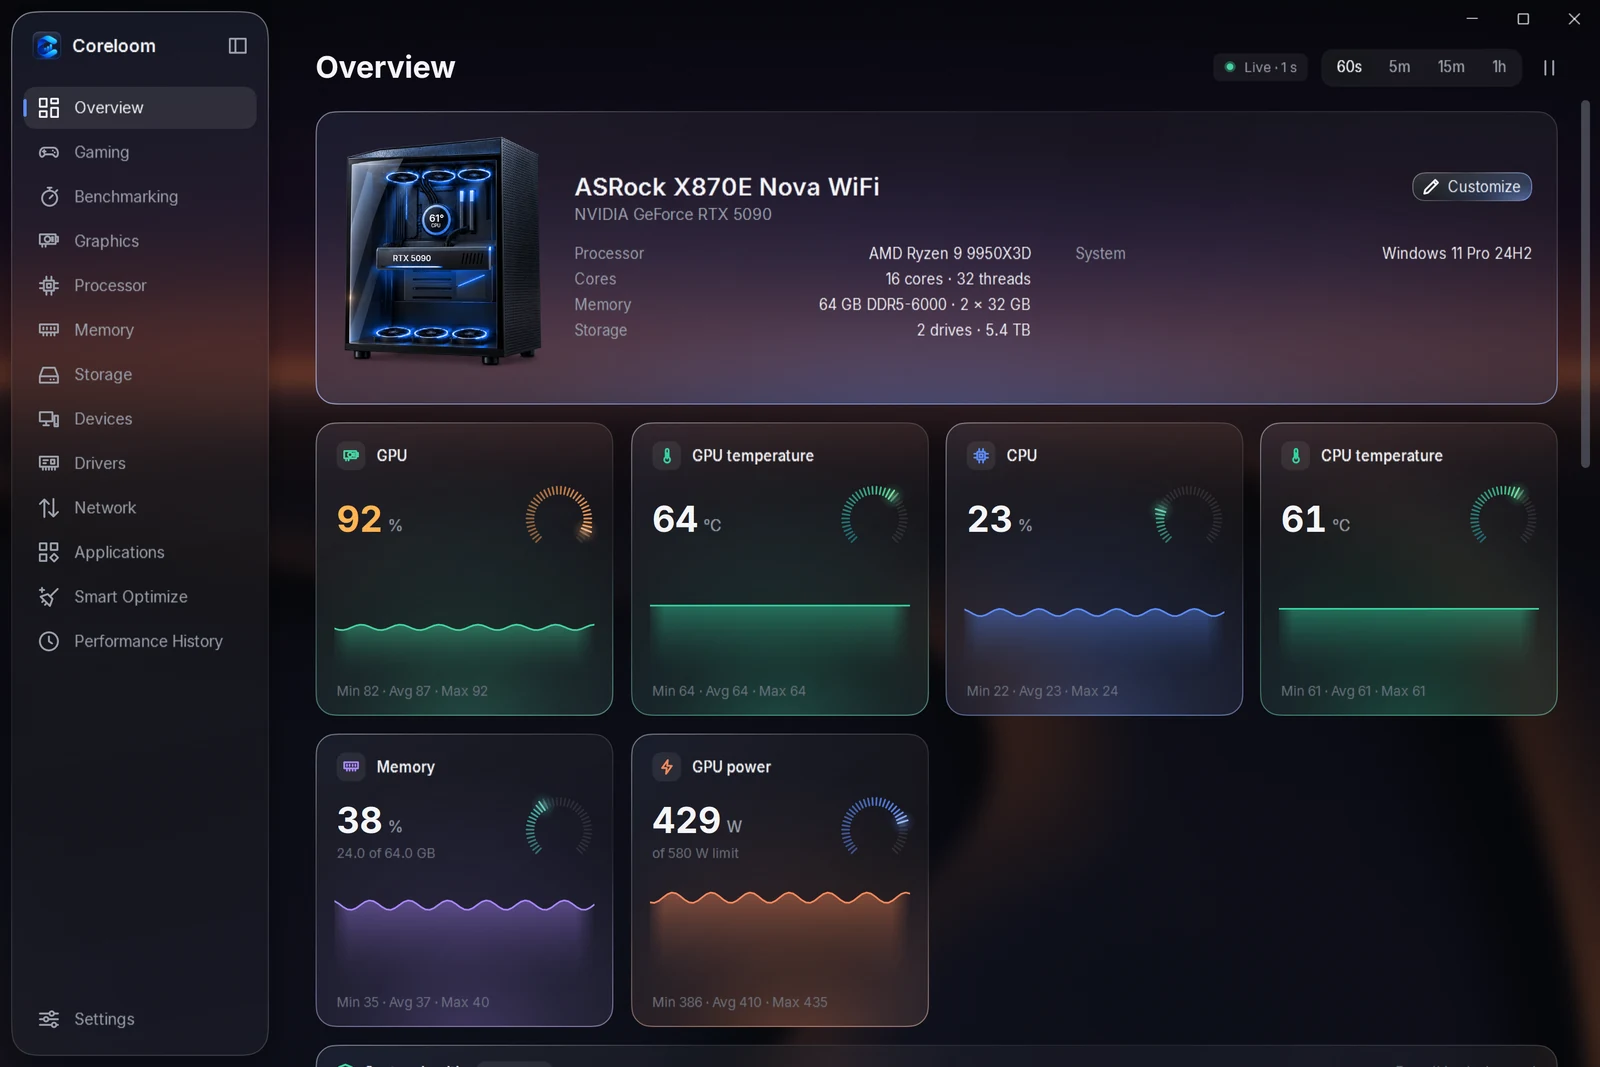
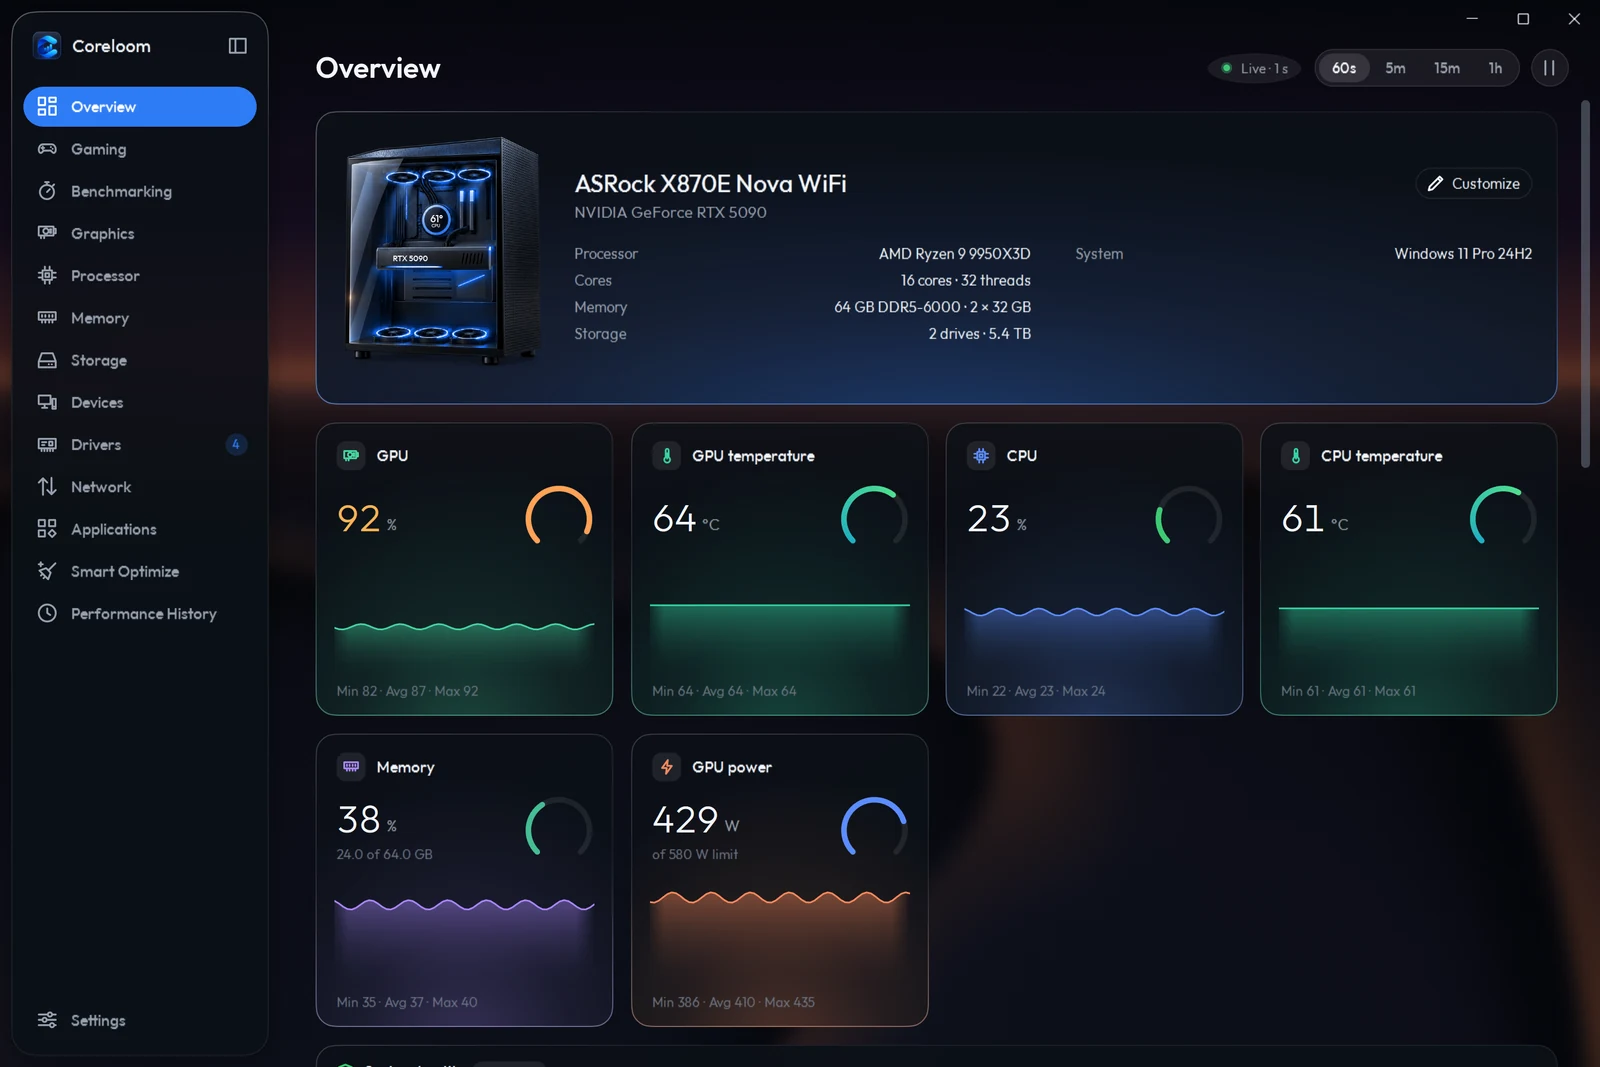
1.9.0: the website's, README's and link preview's pictures, the disk image's background in Outfit, the hero card's glow kept, what was verified
Claude-Session: https://claude.ai/code/session_01KSkAPnRycRxeooZjZu2bHo

diff --git a/build/mac/make-dmg-background.py b/build/mac/make-dmg-background.py
@@ -39,11 +39,11 @@ def draw(scale: int) -> Image.Image:
 
     # Title and instruction.
     title = "Install Coreloom"
-    f_title = font("Inter-SemiBold.ttf", 22, scale)
+    f_title = font("Outfit-SemiBold.ttf", 22, scale)
     tw = d.textlength(title, font=f_title)
     d.text(((w - tw) / 2, 34 * scale), title, font=f_title, fill=(240, 244, 255))
     sub = "Drag Coreloom into the Applications folder."
-    f_sub = font("Inter-Regular.ttf", 13.5, scale)
+    f_sub = font("Outfit-Regular.ttf", 13.5, scale)
     sw = d.textlength(sub, font=f_sub)
     d.text(((w - sw) / 2, 68 * scale), sub, font=f_sub, fill=(176, 189, 216))
 
@@ -59,8 +59,8 @@ def draw(scale: int) -> Image.Image:
     d.polygon([(x1, y), (x1 - 16 * scale, y - 10 * scale), (x1 - 16 * scale, y + 10 * scale)], fill=(108, 160, 255))
 
     # The first opening.
-    f_note = font("Inter-Regular.ttf", 11.5, scale)
-    f_bold = font("Inter-SemiBold.ttf", 11.5, scale)
+    f_note = font("Outfit-Regular.ttf", 11.5, scale)
+    f_bold = font("Outfit-SemiBold.ttf", 11.5, scale)
     lines = [
         [("First opening: ", f_bold), ("if macOS says it could not verify Coreloom, open", f_note)],
         [("System Settings › Privacy & Security", f_bold), (" and click ", f_note), ("Open Anyway", f_bold), (" (only this once).", f_note)],

diff --git a/build/site/make-og.py b/build/site/make-og.py
@@ -16,7 +16,7 @@ W, H = 1200, 630
 
 
 def font(weight, size):
-    return ImageFont.truetype(str(FONTS / f"Inter-{weight}.ttf"), size)
+    return ImageFont.truetype(str(FONTS / f"Outfit-{weight}.ttf"), size)  # the app's type since 1.9.0
 
 
 def background():
@@ -67,7 +67,7 @@ def main():
     icon = Image.open(ASSETS / "icon-256.png").convert("RGBA").resize((120, 120), Image.LANCZOS)
     canvas.alpha_composite(icon, (64, 92))
     d = ImageDraw.Draw(canvas)
-    d.text((64, 252), "Coreloom", font=font("Bold", 64), fill=(244, 245, 247))
+    d.text((64, 252), "Coreloom", font=font("SemiBold", 64), fill=(244, 245, 247))
     d.text((66, 340), "Hardware monitor", font=font("Medium", 30), fill=(184, 192, 208))
     d.text((66, 380), "for Mac and Windows", font=font("Medium", 30), fill=(184, 192, 208))
     d.text((66, 470), "Free · Open source · No telemetry", font=font("Regular", 22), fill=(140, 150, 168))

diff --git a/docs/VERIFICATION.md b/docs/VERIFICATION.md
@@ -999,6 +999,27 @@ and a PyPI hiccup installing dmgbuild no longer fails the step (a plain disk ima
 - **Uninstalling real apps.** Each app's own uninstaller runs, and some ask questions or open a browser page when they finish; Coreloom waits for it and checks the app is gone from the list. That, and removing Store apps, hasn't been tried on a real PC.
 - **Mac gradients on a real Retina display.** The runners' virtual displays are not Retina; the dithering is meant to be invisible at 2×, but that's only been looked at in pictures.
 
+## 1.9.0: the new look (Outfit, pills, dark glass, thin rings, motion), the splash, the phone app
+
+### Verified
+
+| What | How | Result |
+|---|---|---|
+| Tests | Core (`Release190Tests`: the deeper blue is the default and the old one stays on offer as *Sky*; settings from before 1.9.0 move to the new blue only when they kept the old default, and the schema version moves to 2; the frost behind the glass is deeper; `ConnectTests` now expects the phone's Outfit font), view models (`Release190ViewModelTests`: Drivers shows its updates as a count in the sidebar once checked, Settings keeps its red dot, the 13 pages in their 1.8.6 order) and every earlier test with the restyled pages | ✅ in the container (Core 770, view models 222) and on GitHub (CI_RUNS) |
+| The look on Windows | Page shots runs SHOTS_RUNS: every page and the whole window in Outfit, the current page a blue pill in the sidebar (Drivers with its count, white on the pill), pill buttons and pickers, green switches, thin ring gauges, the light numbers, dark glass cards still glowing in their colour; the new splash (`windows-splash.png`); the clip check: 59 icon buttons on 29 pages and states, 0 cut off | ✅ |
+| The look on the Mac | MacShots of every page and dialog with 0 binding errors (the current page now shown as selected in headless pictures, as in the app); Mac verify runs MACVERIFY_RUNS on Apple silicon and Intel: every page in the light theme the runner uses, Connect serving the phone app with its Outfit font, the menu bar readings, the backgrounds, the readings window, a clean quit | ✅ |
+| The phone app | Playwright at iPhone size against the demo server, dark and light: pairing, every tab, the Add to Home Screen sheet, link pairing, reload resuming (the only console errors the deliberate wrong code's 403 and requests cut off by reloads); `connect.js` in Node against the demo: 16 of 16; the new type, light numbers, thin arcs and pill buttons in the pictures | ✅ |
+| Website | Playwright as a Mac, a Windows and a phone-sized visitor at 1440, 1100, 820 and 390 px: *New in 1.9.0* shows the system's picture and three points, the badge says what's new, nothing cut off, every section with room, the background swatches switch, no horizontal scrolling, failed requests or console errors; the phone mockups checked pixel by pixel for the orange that used to show around the screen: none. Every picture on the site and in the README redrawn from this version, and the link preview and the Mac disk image's background set in Outfit | ✅ |
+
+UPDATE_190
+
+### Not verified yet
+
+- **The look on real screens.** Everything above is from runners and headless pictures at 2×: how Outfit renders at 100–175 % on Windows (ClearType with Display mode for small text, Ideal for large) and on a non-Retina Mac, the motion's smoothness on a real GPU (the leaving page's blur, the staggered entrance, the chart draw-in), and whether the light numbers read well on a bright screen.
+- **The splash on real hardware.** Its lights and the drift on 4K and at 150 %, the handoff to the main window.
+- **The accent move.** Settings saved by 1.8.x with the old default accent moving to the new blue on the first start (unit-tested, not watched on a real PC).
+- The 1.8.6 items still open (real driver installs, real uninstalls).
+
 ## How to re-run the checks that can run anywhere
 
 ```bash
